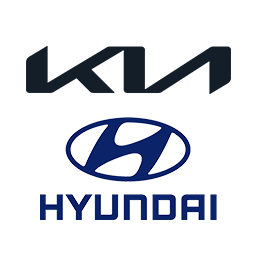
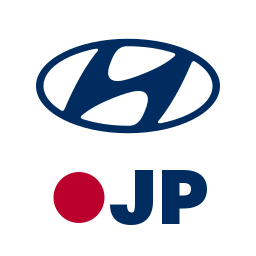
feat: add HyundaiJP vector branding

Changed region(s): [[0.0938, 0.125, 0.9062, 0.9062]]

diff --git a/README.md b/README.md
@@ -81,6 +81,11 @@ See [the workflows](.github/workflows) for exact checks and release steps.
 
 ## Credits
 
+The HyundaiJP icon is maintained as [an SVG](custom_components/hyundai_jp/brand/icon.svg).
+The 256px and 512px PNG icons are rendered from that source for Home Assistant.
+Its Hyundai emblem comes from [Simple Icons](https://github.com/simple-icons/simple-icons/blob/develop/icons/hyundai.svg)
+under [CC0](https://github.com/simple-icons/simple-icons/blob/develop/LICENSE.md).
+
 Based on [kia_uvo](https://github.com/Hyundai-Kia-Connect/kia_uvo) and
 [hyundai_kia_connect_api](https://github.com/Hyundai-Kia-Connect/hyundai_kia_connect_api),
 with Japan work continued from
